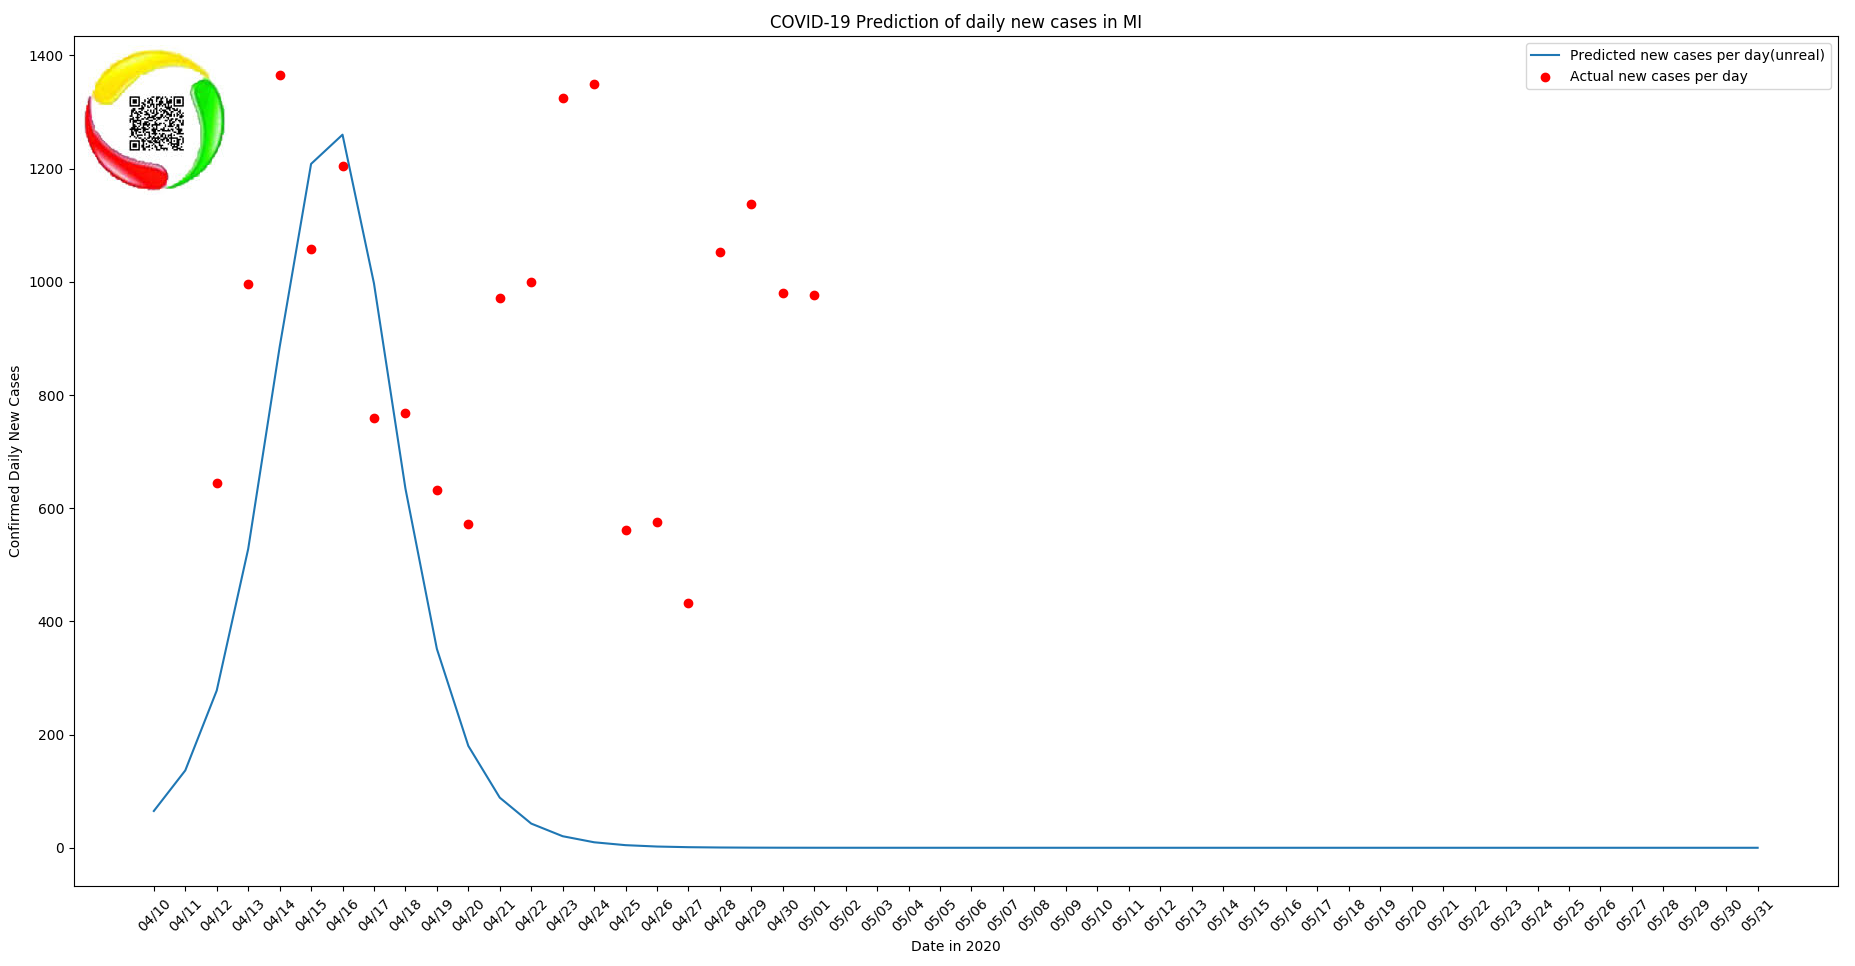
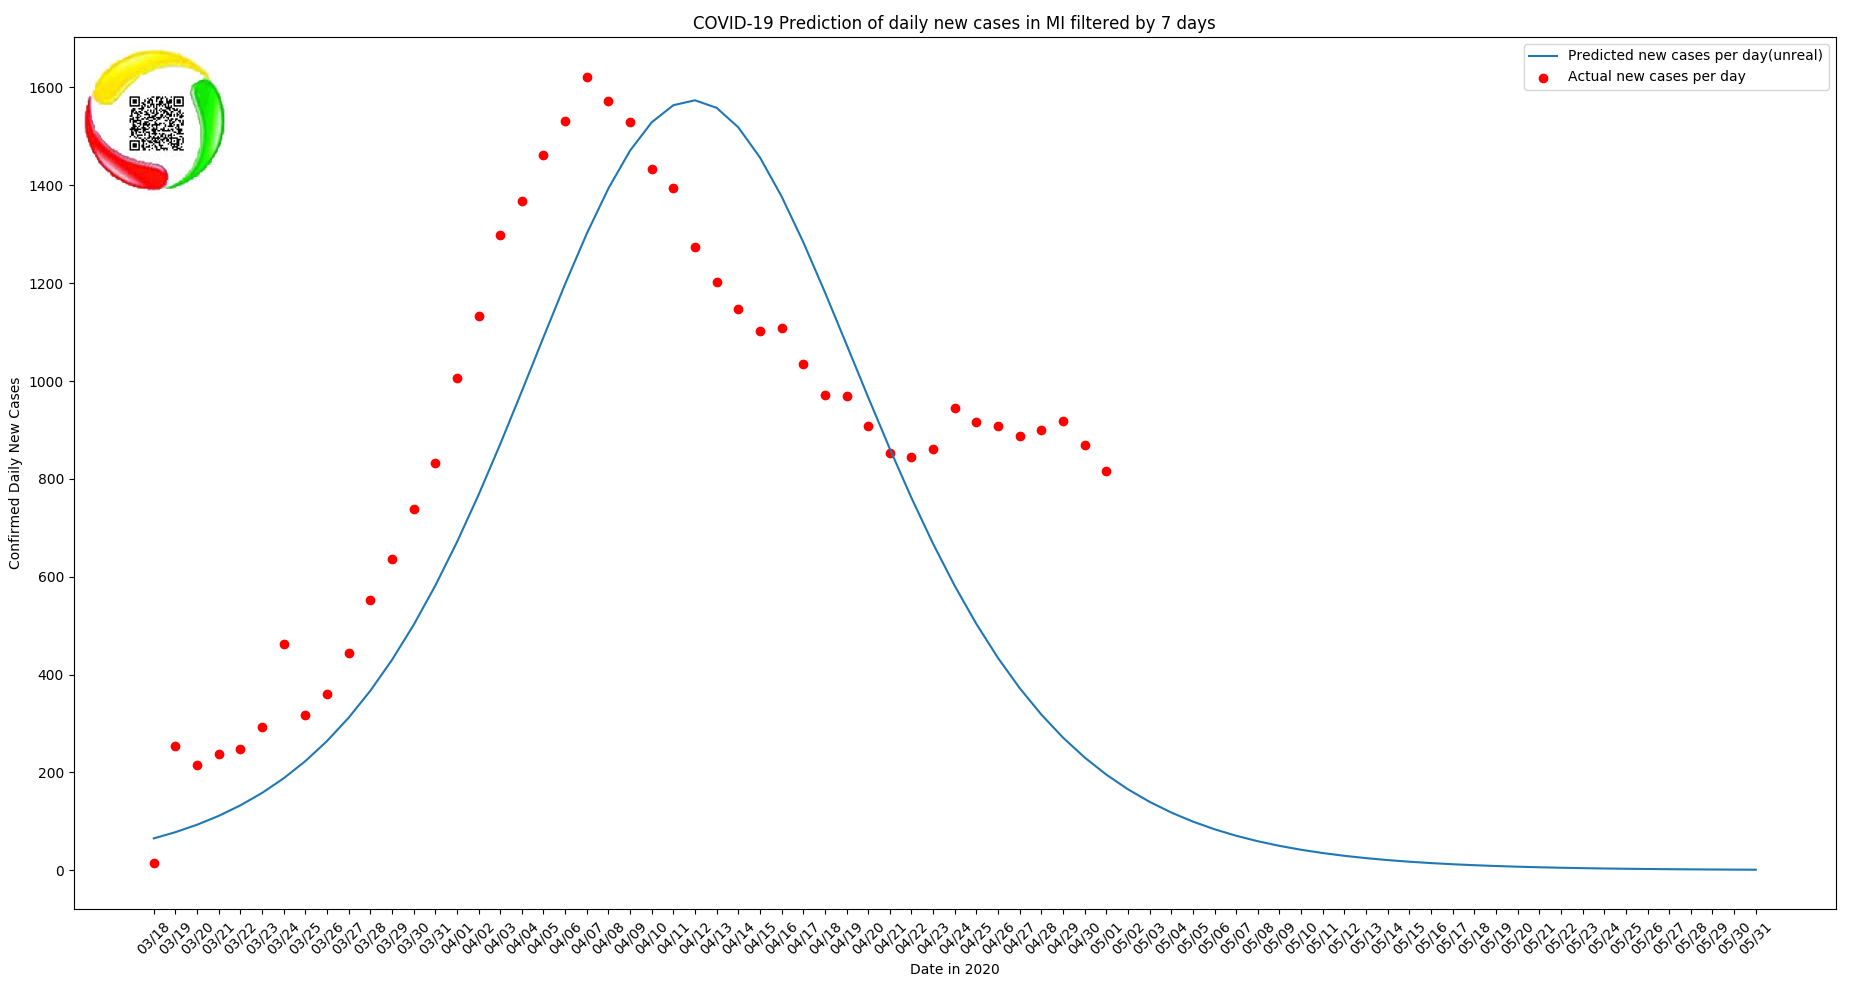
update prediction in MI

diff --git a/predictionviz22.py b/predictionviz22.py
@@ -160,13 +160,13 @@ class predictionViz(object):
         # predict the future
         if(self.state_name in 'OH'): preDay = 19
         elif(self.state_name in 'MI'): 
-            preDay = 23  # len(lst_data_daily) - 15
+            preDay = 0  # len(lst_data_daily) - 15
             print('  preDay %d length %d'%( preDay, len(lst_data_daily) - preDay) )
         else: preDay = 0
         postDay = 0
         data = lst_data_daily[preDay:]  #[0:-1] postDay
-        #if(self.state_name in 'MI'):
-        #    data = self.filterByDays(lst_data_daily[preDay:])
+        if(self.state_name in 'MI'):
+            data = self.filterByDays(lst_data_daily[preDay:])
         day_mmdd = day_mmdd[preDay:]    # postDay   
         #if(self.state_name in 'MI'): data[-2] = data[-1] * 1.15 # updated on 4/12/2020
         if(len(data) < 2): return False
@@ -194,7 +194,7 @@ class predictionViz(object):
         plt.legend()
         plt.xlabel('Date in 2020')
         plt.ylabel('Confirmed Daily New Cases')
-        plt.title("COVID-19 Prediction of daily new cases in " + self.state_name) # + ' filtered by 7 days')
+        plt.title("COVID-19 Prediction of daily new cases in " + self.state_name + ' filtered by 7 days')
         plt.xticks(rotation=45)
         fig.tight_layout()      
         if(timeout > 10):

diff --git a/la/dataGrabLA10.py b/la/dataGrabLA10.py
@@ -33,25 +33,6 @@ class dataGrabLa(object):
         self.state_dir = './'+n_state.lower()+'/'
         self.l_state_config = l_config
 
-
-###
-    ## save downloaded data to daily or overal data 
-    def saveLatestDateLa(self, l_raw_data):
-        l_overall = []
-        
-        l_overall.append(['County', 'Cases', 'Deaths'])
-        for a_item in l_raw_data:
-            
-            l_overall.append(a_item[2:])
-        #for a_item in l_overall:
-        #    print (a_item)
-        self.save2File(l_overall, self.state_dir + 'data/'+self.state_name.lower()+'_covid19_'+self.name_file+'.csv')
-        return l_overall
-
-
-
-######
-
     ## save to csv 
     def save2File(self, l_data, csv_name):
         csv_data_f = open(csv_name, 'w')
